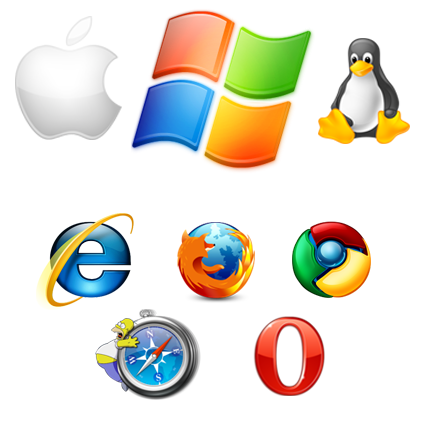
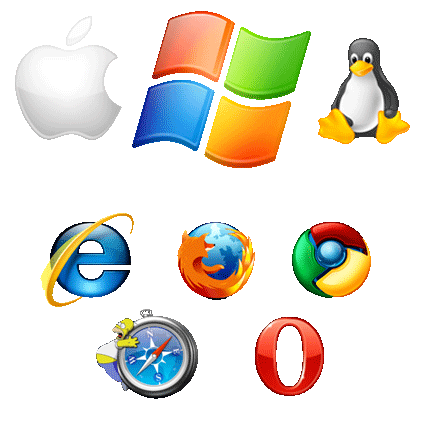
Optimized Images

diff --git a/index.html b/index.html
@@ -86,7 +86,7 @@
 				</p>
 			</div>
 			<div class="column3">
-				<img src="images/phones.png" />
+				<img src="images/phones.jpg" />
 			</div>
 			<div class="clear"></div>
 		</div>
@@ -126,7 +126,7 @@
 				<h3>Open Source Tools</h3>
 				<p>
 					Our way to contribute to the Open Source community is to develop
-					free to use, open source tools for basic task as
+					free to use, open source tools like:
 					<a href="http://github.com/giancarlo/scroller.js">smooth scrolling</a>
 					and <a href="http://github.com/giancarlo/cxl-layout.js">Layout 
 					Manager</a>. Visit our <a href="http://github.com/CoaxialSoftware">
